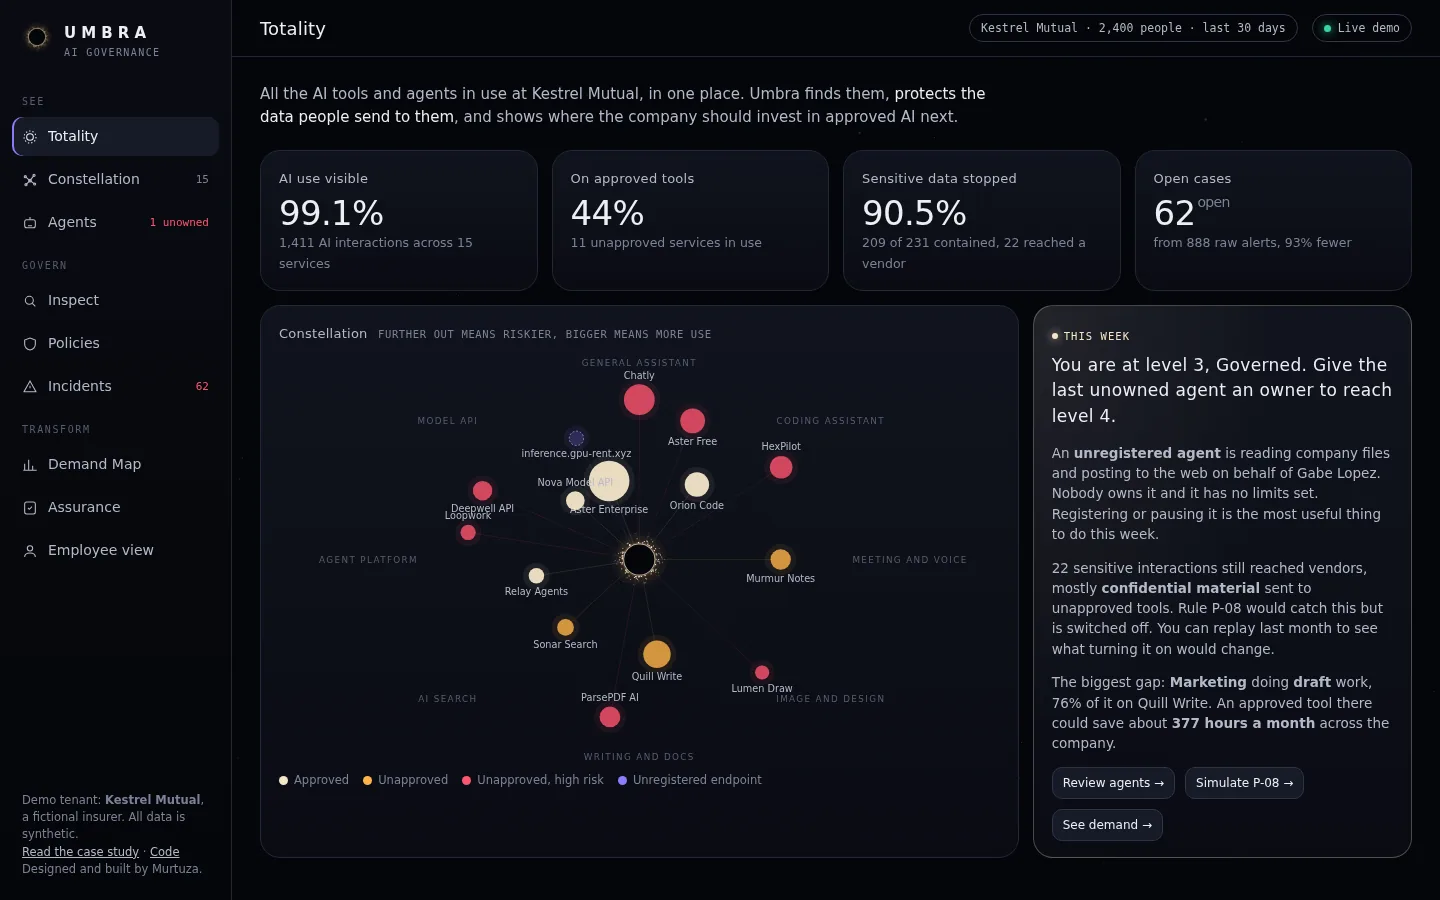
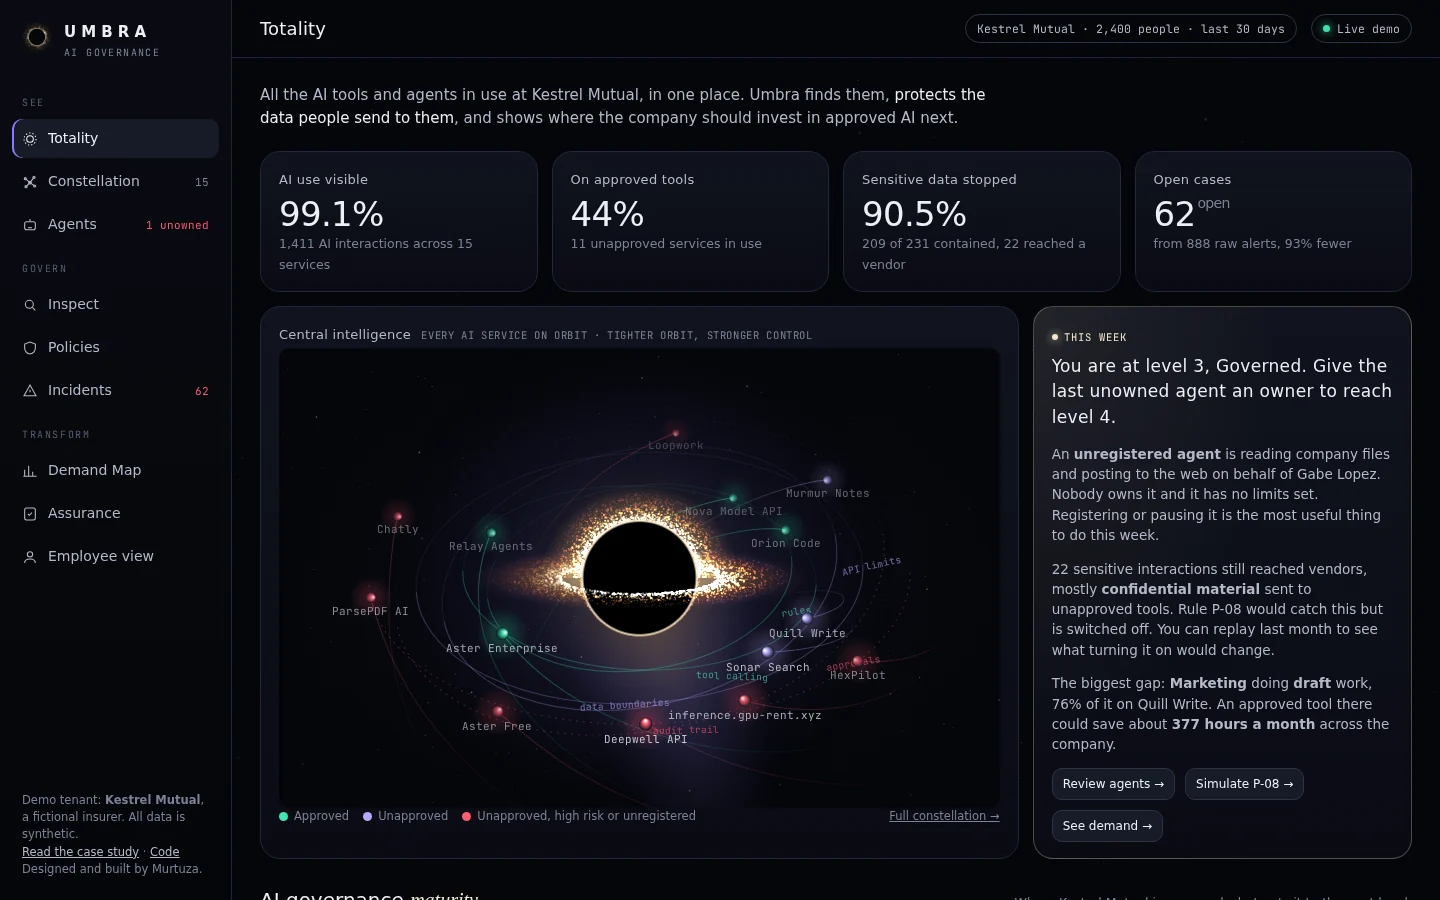
Totality: the central intelligence, every AI service in the inventory on orbit around Umbra
Claude-Session: https://claude.ai/code/session_01V1gFiQMVHBLNbgjmJzyciJ

diff --git a/brand/umbra-system.js b/brand/umbra-system.js
@@ -1,0 +1,100 @@
+/* Umbra central intelligence: shared with the portfolio. Plain script, sets window.umbraSystem. */
+/* Umbra as a central intelligence. A black hole at the centre, its accretion disk turning, the light of the far
+   side bent over the top. The company's AI services orbit it, and each orbit is a ring of Umbra's influence:
+   rules, tool calling, API limits, data boundaries, approvals, audit trail. The tighter the orbit, the stronger the
+   hold. The whole system travels forward, so every orbit leaves a spiral behind it. Every few seconds the core
+   reaches out to one service; every ten or so it pulls a shadow tool inward and governs it (red, then lavender,
+   then green). Then a new shadow tool shows up on the edge, because there is always another one.
+   Names come from Umbra's own sample catalog. */
+window.umbraSystem=function(cv,o){ o=o||{}; const x=cv.getContext('2d'); const D=Math.min(2,devicePixelRatio||1); let W,H,seed=3; const r=()=>((seed=(seed*16807)%2147483647)/2147483647);
+const S=Array.from({length:240},()=>[r(),r(),r()]);
+const size=()=>{W=cv.clientWidth;H=cv.clientHeight;cv.width=W*D;cv.height=H*D;x.setTransform(D,0,0,D,0,0)}; size(); addEventListener('resize',size);
+const sec=o.host||cv.parentElement; let mx=-1e4,my=-1e4,heat=0; sec.addEventListener('pointermove',e=>{const c=cv.getBoundingClientRect();mx=e.clientX-c.left;my=e.clientY-c.top;}); sec.addEventListener('pointerleave',()=>{mx=my=-1e4;});
+const still=matchMedia('(prefers-reduced-motion: reduce)').matches; let on=false, running=false; const go=()=>{ if(!running&&on&&!still&&(!o.active||o.active())){ running=true; last=performance.now(); requestAnimationFrame(f); } }; new IntersectionObserver(e=>{on=e[0].isIntersecting; go();}).observe(cv); cv.umbraWake=go;
+const MONO=(getComputedStyle(document.body).getPropertyValue('--mono')||'').trim()||'monospace';
+/* accretion disk: particles on circular orbits seen at a low angle */
+const KY=.2, DISK=Array.from({length:innerWidth<700?1400:2600},()=>{const u=r(); return {f:Math.pow(u,1.7), a:r()*6.283, s:.6+r()*.9, j:r()};});
+const HEATC=['#FFFBF0','#FFF1D2','#FFE2AE','#FFD08A','#FFBC6A','#FFA552','#F68A45','#E06F3E','#C2573D','#9E4542','#7A3B55','#5B3566'];
+/* rings of influence: radius in hole radii, tilt, flatness */
+const ORB=[[2.95,-.14,.6],[3.4,.04,.52],[3.85,-.22,.64],[4.3,-.06,.56],[4.75,-.18,.62],[5.2,-.02,.54]];
+const RING=['rules','tool calling','API limits','data boundaries','approvals','audit trail'];
+const RC=[[59,232,176],[59,232,176],[179,168,255],[179,168,255],[255,90,110],[255,90,110]];
+const VX=-.3, VY=-.95; /* direction of travel: up, so the trails fall away below */
+/* status runs 0 shadow, 1 under review, 2 approved */
+const SC=[[255,90,110],[179,168,255],[59,232,176]], SN=o.statusNames||['shadow AI','under review','approved'];
+const col=g=>{ const i=Math.min(1,Math.floor(g)), t=Math.min(1,g-i), a=SC[i], b=SC[Math.min(2,i+1)]; return [0,1,2].map(k=>Math.round(a[k]+(b[k]-a[k])*t)); };
+const rgba=(c,a)=>`rgba(${c[0]},${c[1]},${c[2]},${a})`;
+const mk=(n,g,o,a)=>({n,g,o,a,ph:r()*6.283,beam:0,h:[],cap:-1,al:1});
+const P=o.planets?o.planets.map((q,i)=>mk(q.n,q.g,q.o,i*2.399)):[mk('Aster Enterprise',2,0,.0),mk('Orion Code',2,1,3.1),mk('Relay Agents',2,1,1.4),
+         mk('Quill Write',1,2,.8),mk('Sonar Search',1,3,4.2),...(o.full?[mk('Vela Meeting AI',2,0,3.4),mk('Murmur Notes',1,3,1.2)]:[]),
+         mk('Chatly',0,4,5.4),mk('HexPilot',0,4,2.2),mk('Aster Free',0,5,3.6),mk('Lumen Draw',0,5,.4),...(o.full?[mk('ParsePDF AI',0,5,2.1)]:[])];
+const POOL=['Loopwork','ParsePDF AI','Chatly','HexPilot','Aster Free','Lumen Draw']; let poolI=0;
+const orbAt=o=>{ const i=Math.max(0,Math.min(4.999,o)), a=Math.floor(i), t=i-a, A=ORB[a], B=ORB[a+1]; return [A[0]+(B[0]-A[0])*t, A[1]+(B[1]-A[1])*t, A[2]+(B[2]-A[2])*t]; };
+const ease=t=>t<.5?4*t*t*t:1-Math.pow(-2*t+2,3)/2;
+let next=1.5, pick=0, story=o.firstStory||6; let last=performance.now(), T=0;
+function f(now){const dt=Math.min(.05,(now-last)/1000); last=now; x.clearRect(0,0,W,H);
+ for(const [a,b,c] of S){ const sp=(6+c*22)*T, sx=((a*W-VX*sp)%W+W)%W, sy=((b*H-VY*sp)%H+H)%H; x.globalAlpha=(.05+c*.35)*(.55+.45*Math.sin(T*(.6+c*1.8)+c*40));x.fillStyle='#F5E6C8';x.fillRect(sx,sy,c>.85?1.5:1,c>.85?1.5:1)} x.globalAlpha=1;
+ const {X,Y,Rh,narrow}=o.geom(W,H);
+ const near=Math.hypot(mx-X,my-Y)<Rh*6; heat+=((near?1:0)-heat)*.04; T+=dt*(1+heat*.9);
+ const rin=Rh*1.5, rout=Rh*2.85;
+ let g=x.createRadialGradient(X,Y,Rh*.8,X,Y,Rh*5); g.addColorStop(0,`rgba(255,190,110,${.16+heat*.08})`); g.addColorStop(.35,'rgba(139,124,255,.07)'); g.addColorStop(1,'rgba(5,6,10,0)'); x.fillStyle=g; x.fillRect(X-Rh*5,Y-Rh*5,Rh*10,Rh*10);
+ /* the story: every ten seconds or so, pull a shadow tool inward and govern it */
+ story-=dt; if(o.story!==false&&story<=0&&!P.some(p=>p.cap>=0)){ const sh=P.filter(p=>p.g<.5&&p.al>.99); if(sh.length){ const p=sh[Math.floor(r()*sh.length)]; p.cap=0; p.o0=p.o; p.g0=p.g; } story=11; }
+ for(const p of P){
+   if(p.cap>=0){ p.cap+=dt/5; const e=ease(Math.min(1,p.cap)); p.o=p.o0+(1.3-p.o0)*e; p.g=p.g0+(2-p.g0)*e; p.beam=Math.max(p.beam,Math.min(1,p.cap*3)*(p.cap<1.1?1:0));
+     if(p.cap>=2.2){ p.al-=dt; if(p.al<=0){ /* a new shadow tool appears on the edge */ let n; do{ n=POOL[poolI++%POOL.length]; }while(P.some(q=>q.n===n)); Object.assign(p,{n,g:0,o:4+r(),cap:-1,al:0,h:[],a:r()*6.283}); p.fade=1; } } }
+   else if(p.fade){ p.al=Math.min(1,p.al+dt*.6); if(p.al>=1) p.fade=0; } }
+ /* planets: positions and depth */
+ const pl=P.map(p=>{ const [k,tl,oy]=orbAt(p.o), w=.3*Math.pow(3.1/k,1.5)*(1-heat*.35); p.a+=dt*w*(p.g<.5?1+.25*Math.sin(T*.7+p.ph):1);
+   const ex=Math.cos(p.a)*Rh*k, ey=Math.sin(p.a)*Rh*k*oy, ct=Math.cos(tl), sn=Math.sin(tl);
+   const px=X+ex*ct-ey*sn, py=Y+ex*sn+ey*ct, drift=dt*(20+heat*14); for(const h of p.h){ h[0]-=VX*drift; h[1]-=VY*drift; } p.h.push([px,py,p.g]); if(p.h.length>560) p.h.shift();
+   return {p, px, py, z:Math.sin(p.a), c:col(p.g)}; });
+ /* the path each planet has travelled: the system moves forward, so orbits become spirals behind it */
+ x.lineWidth=1.1; for(const q of pl){ const h=q.p.h; for(let i=1;i<h.length;i+=1){ x.globalAlpha=Math.pow(i/h.length,1.8)*(h[i][2]<.5?.3:.4)*q.p.al; x.strokeStyle=rgba(col(h[i][2]),1); x.beginPath(); x.moveTo(h[i-1][0],h[i-1][1]); x.lineTo(h[i][0],h[i][1]); x.stroke(); } } x.globalAlpha=1;
+ /* the core's own wake */
+ { const L=Rh*5; for(let i=10;i>=1;i--){ const k=i/10, cx=X-VX*L*k, cy=Y-VY*L*k, rr=Rh*(1.4-k*.6); const wg=x.createRadialGradient(cx,cy,0,cx,cy,rr*1.6); wg.addColorStop(0,`rgba(${k<.5?'255,205,150':'150,135,255'},${(.09+heat*.04)*(1-k*.8)})`); wg.addColorStop(1,'rgba(139,124,255,0)'); x.fillStyle=wg; x.beginPath(); x.arc(cx,cy,rr*1.6,0,6.283); x.fill(); } }
+ /* rings of influence, drawn in two halves so they pass behind the hole and in front of it */
+ const ring=(front)=>{ ORB.forEach(([k,tl,oy],i)=>{ x.save(); x.translate(X,Y); x.rotate(tl); x.beginPath(); x.ellipse(0,0,Rh*k,Rh*k*oy,0,front?0:Math.PI,front?Math.PI:6.283); x.lineWidth=front?1.15:.9; x.strokeStyle=rgba(RC[i],(front?.26:.09)+heat*.06); if(i>3) x.setLineDash([2,5]); x.stroke(); x.setLineDash([]);
+   const lab=o.labels==='always'?.75:heat; if(front&&lab>.02){ const la=[.55,1.25,.25,1.9,.85,1.55][i], lx=Math.cos(la)*Rh*k, ly=Math.sin(la)*Rh*k*oy; x.globalAlpha=lab; x.fillStyle=rgba(RC[i],.85); x.font=`${narrow?8.5:9.5}px ${MONO}`; x.textAlign='left'; x.textBaseline='top'; x.fillText(RING[i],lx+5,ly+3); x.globalAlpha=1; }
+   x.restore(); }); };
+ ring(false);
+ /* the core reaches out to one service at a time */
+ next-=dt; if(next<=0){ next=2.4; const q=pl[pick%pl.length]; if(q.p.cap<0) q.p.beam=1; pick+=4; }
+ let hov=null, hd=1e9; pl.forEach(q=>{ const d=Math.hypot(mx-q.px,my-q.py); if(d<28&&d<hd){hd=d;hov=q;} });
+ const cw=narrow?6.1:6.7, boxes=[]; [...pl].sort((a,b)=>(b===hov)-(a===hov)||(b.p.cap>=0)-(a.p.cap>=0)||b.z-a.z).forEach(q=>{ const w=q.p.n.length*cw+6, bx=q.px-w/2, by=q.py+4; q.show=q===hov||q.p.cap>=0||!boxes.some(b=>bx<b[2]&&bx+w>b[0]&&by<b[3]&&by+(q.p.beam>.35?30:16)>b[1]); if(q.show) boxes.push([bx,by,bx+w,by+(q.p.beam>.35||q.p.cap>=0?30:16)]); });
+ const drawPlanet=q=>{ const {p,px,py,z,c}=q, s=(narrow?4.2:5.4)*(1+.22*z)*(1+.1*p.g/2), lit=hov===q, A=p.al;
+   if(p.cap<0) p.beam=Math.max(0,p.beam-dt*.55); else if(p.cap>1.1) p.beam=Math.max(0,p.beam-dt*.5);
+   if(p.beam>0||lit){ const b=(lit?1:p.beam)*A; const lg=x.createLinearGradient(X,Y,px,py); lg.addColorStop(0,'rgba(255,230,190,0)'); lg.addColorStop(.25,`rgba(255,230,190,${.5*b})`); lg.addColorStop(1,rgba(c,1)); x.globalAlpha=b*.9; x.strokeStyle=lg; x.lineWidth=p.cap>=0?1.8:1.2; x.beginPath(); x.moveTo(X+(px-X)*.18,Y+(py-Y)*.18); x.lineTo(px,py); x.stroke();
+     x.globalAlpha=b*.6; x.strokeStyle=rgba(c,1); x.lineWidth=1.1; x.beginPath(); x.arc(px,py,s+4+(p.cap>=0?3*Math.sin(T*6):(1-b)*12),0,6.283); x.stroke(); x.globalAlpha=1; }
+   const flick=p.g<.5?.7+.3*Math.sin(T*3.1+p.ph*7):1;
+   const hg=x.createRadialGradient(px,py,0,px,py,s*4); hg.addColorStop(0,rgba(c,.33)); hg.addColorStop(1,rgba(c,0)); x.globalAlpha=A*flick*(.45+.55*(z+1)/2); x.fillStyle=hg; x.beginPath(); x.arc(px,py,s*4,0,6.283); x.fill();
+   const dd=Math.hypot(X-px,Y-py)||1, lx=px+(X-px)/dd*s*.55, ly=py+(Y-py)/dd*s*.55;
+   const sg=x.createRadialGradient(lx,ly,s*.1,px,py,s); sg.addColorStop(0,'#FFFFFF'); sg.addColorStop(.35,rgba(c,1)); sg.addColorStop(1,'#0A0C13'); x.globalAlpha=A*flick*(.55+.45*(z+1)/2); x.fillStyle=sg; x.beginPath(); x.arc(px,py,s,0,6.283); x.fill();
+   if(q.show){ x.globalAlpha=A*(lit||p.cap>=0?1:.3+.6*(z+1)/2)*(p.g<.5?flick:1); x.font=`500 ${narrow?10:11}px ${MONO}`; x.textBaseline='middle'; x.textAlign='center'; x.fillStyle=lit?'#FFFFFF':'#D6D9E4'; x.fillText(p.n,px,py+s+9);
+     if(lit||p.beam>.35||p.cap>=0){ x.globalAlpha=A*(lit||p.cap>=0?1:p.beam); x.fillStyle=rgba(c,1); x.font=`${narrow?9:10}px ${MONO}`; x.fillText(p.cap>=0&&p.cap<1?'governing…':SN[Math.round(p.g)],px,py+s+21); } }
+   x.globalAlpha=1; x.textAlign='left'; };
+ const back=pl.filter(q=>q.z<0).sort((a,b)=>a.z-b.z), front=pl.filter(q=>q.z>=0).sort((a,b)=>a.z-b.z);
+ back.forEach(drawPlanet);
+ /* disk: far half first, then the bent light over the top, then the hole, then the near half */
+ const pts=DISK.map(d=>{ const rr=rin+(rout-rin)*d.f; d.a+=dt*(1+heat*1.4)*1.15*Math.pow(rin/rr,1.5); const ca=Math.cos(d.a), sa=Math.sin(d.a);
+   const ci=Math.min(HEATC.length-1,Math.floor(d.f*HEATC.length)), dop=1+.6*ca; return {px:X+ca*rr, py:Y+sa*rr*KY, sa, ca, ci, al:Math.min(1,(.35+.65*(1-d.f))*dop*(.75+.25*Math.sin(T*2+d.j*30))*(.85+heat*.3)), s:d.s*(narrow?.85:1)*(1+(1-d.f)*.5), f:d.f}; });
+ x.save(); x.translate(X,Y); x.scale(1,KY); g=x.createRadialGradient(0,0,rin*.9,0,0,rout*1.15); g.addColorStop(0,`rgba(255,214,150,${.5+heat*.2})`); g.addColorStop(.45,'rgba(255,150,80,.22)'); g.addColorStop(1,'rgba(120,60,120,0)'); x.fillStyle=g; x.beginPath(); x.arc(0,0,rout*1.15,0,6.283); x.fill(); x.restore();
+ x.save(); x.translate(X,Y); x.scale(1,.94); g=x.createRadialGradient(0,0,Rh*1.05,0,0,Rh*1.9); g.addColorStop(0,`rgba(255,220,170,${.38+heat*.15})`); g.addColorStop(1,'rgba(255,170,90,0)'); x.fillStyle=g; x.beginPath(); x.arc(0,0,Rh*1.9,Math.PI,0); x.fill(); x.restore();
+ x.globalCompositeOperation='lighter';
+ for(const q of pts) if(q.sa<0){ x.globalAlpha=q.al*.8; x.fillStyle=HEATC[q.ci]; x.fillRect(q.px-q.s/2,q.py-q.s/2,q.s,q.s); }
+ /* lensed image of the far side, arching over the top and a thin ring underneath */
+ for(const q of pts){ const lr=Rh*(1.12+.6*q.f), ang=Math.atan2(q.sa,q.ca); const top=Math.PI+(ang<0?ang+Math.PI:ang);
+   x.globalAlpha=q.al*.8; x.fillStyle=HEATC[q.ci]; const ax=X+Math.cos(top)*lr, ay=Y+Math.sin(top)*lr*.96; x.fillRect(ax-q.s*.5,ay-q.s*.5,q.s,q.s);
+   if(q.f<.45){ const br=Rh*(1.06+.22*q.f), bt=top-Math.PI; x.globalAlpha=q.al*.28; x.fillRect(X+Math.cos(bt)*br-.6,Y+Math.sin(bt)*br*.94-.6,1.2,1.2); } }
+ x.globalCompositeOperation='source-over'; x.globalAlpha=1;
+ /* event horizon and photon ring */
+ g=x.createRadialGradient(X,Y,Rh*.6,X,Y,Rh*1.14); g.addColorStop(0,'#000'); g.addColorStop(.86,'#000'); g.addColorStop(.93,`rgba(255,236,200,${.85+heat*.15})`); g.addColorStop(1,'rgba(255,200,130,0)');
+ x.fillStyle=g; x.beginPath(); x.arc(X,Y,Rh*1.14,0,6.283); x.fill();
+ x.globalCompositeOperation='lighter';
+ for(const q of pts) if(q.sa>=0){ x.globalAlpha=q.al; x.fillStyle=HEATC[q.ci]; x.fillRect(q.px-q.s/2,q.py-q.s/2,q.s,q.s); }
+ x.globalCompositeOperation='source-over'; x.globalAlpha=1;
+ ring(true);
+ front.forEach(drawPlanet);
+ if(on&&!still&&(!o.active||o.active())) requestAnimationFrame(f); else running=false; }
+if(still) requestAnimationFrame(f);
+};

diff --git a/app.js b/app.js
@@ -98,8 +98,8 @@ V.totality = () => {
     <div class="card kpi"><h3>Open cases</h3><b>${open.length}<sup>open</sup></b><span>from ${fmt(m.alerts)} raw alerts, ${pct(m.noiseReduction)} fewer</span></div>
   </div>
   <div class="grid g21" style="margin-top:14px">
-    <div class="card"><h3>Constellation <small>FURTHER OUT MEANS RISKIER, BIGGER MEANS MORE USE</small></h3>${constellation(R.inventory, { w: 780, h: 460 })}
-      <div class="legend"><span><i style="background:var(--corona)"></i>Approved</span><span><i style="background:var(--flare)"></i>Unapproved</span><span><i style="background:var(--ember)"></i>Unapproved, high risk</span><span><i style="background:var(--plasma)"></i>Unregistered endpoint</span></div></div>
+    <div class="card core-card"><h3>Central intelligence <small>EVERY AI SERVICE ON ORBIT · TIGHTER ORBIT, STRONGER CONTROL</small></h3><canvas id="core" class="core" role="img" aria-label="Umbra at the centre with the ${R.inventory.length} AI services found at Kestrel Mutual on orbit. Approved services sit on the inner rings, unapproved ones further out, high risk on the outer rings."></canvas>
+      <div class="legend"><span><i style="background:#3BE8B0"></i>Approved</span><span><i style="background:#B3A8FF"></i>Unapproved</span><span><i style="background:#FF5A6E"></i>Unapproved, high risk or unregistered</span><span style="margin-left:auto"><a href="#constellation" data-go="constellation" style="color:var(--ink3)">Full constellation →</a></span></div></div>
     <div class="card corona"><span class="ai-badge">This week</span><h3 style="margin-top:8px;font-size:17px;color:var(--ink)">${brief.headline}</h3>
       <div style="color:var(--ink2);font-size:13.5px">${brief.body}</div>
       <div class="row" style="margin-top:14px">${brief.actions.map(a => `<button class="btn sm" data-go="${a[1]}">${a[0]} →</button>`).join('')}</div></div>
@@ -113,6 +113,17 @@ V.totality = () => {
       <button class="btn sm" style="margin-top:12px" data-go="incidents">See all cases</button></div>
   </div>`;
 };
+
+/* the central intelligence: the services in the inventory on orbit around Umbra, placed by status and risk */
+function mountCore() {
+  const cv = $('#core'); if (!cv || !window.umbraSystem) return;
+  const rows = [...R.inventory].sort((a, b) => b.events - a.events).slice(0, 14);
+  const planets = rows.map(r => { const g = r.sanctioned ? 2 : (!r.service || r.risk >= 70) ? 0 : 1;
+    return { n: r.service?.name || r.host, g, o: g === 2 ? Math.min(1.4, r.risk / 100 * 3) : Math.max(1.6, Math.min(5, r.risk / 100 * 5.4)) }; });
+  const wide = innerWidth >= 700;
+  window.umbraSystem(cv, { host: cv, planets, story: false, labels: wide ? 'always' : 'hover', statusNames: ['unapproved, high risk', 'unapproved', 'approved'],
+    geom: (W, H) => { const narrow = W < 560; return { X: W / 2, Y: H / 2, narrow, Rh: Math.max(16, Math.min((W / 2 - (narrow ? 44 : 90)) / 5.2, (H / 2 - (narrow ? 30 : 44)) / (5.2 * .66))) }; } });
+}
 
 function coronaBrief() {
   const m = R.metrics;
@@ -376,6 +387,7 @@ function go(v) {
   document.querySelectorAll('.nav').forEach(b => b.classList.toggle('on', b.dataset.v === v));
   $('#title').innerHTML = TITLES[v];
   $('#view').innerHTML = V[v]();
+  if (v === 'totality') mountCore();
   $('#view').classList.remove('view'); void $('#view').offsetWidth; $('#view').classList.add('view');
   $('#main').scrollTop = 0; $('#rail').classList.remove('open');
   try { history.replaceState(null, '', '#' + v); } catch {}

diff --git a/style.css b/style.css
@@ -140,3 +140,6 @@ svg text{font-family:var(--display)}
 @media(max-width:1100px){.g4{grid-template-columns:repeat(2,1fr)}.g21,.g12,.g3{grid-template-columns:1fr}.ladder{grid-template-columns:1fr 1fr}}
 @media(max-width:760px){body{overflow:auto}.app{grid-template-columns:1fr;height:auto}.rail{position:fixed;inset:0 30% 0 0;z-index:40;transform:translateX(-105%);transition:.25s}.rail.open{transform:none}.menu-btn{display:inline-flex}.main{overflow:visible}.view{padding:18px 16px 60px}.top{padding:12px 16px}.g4,.g2{grid-template-columns:1fr}table{font-size:12.5px}.hide-sm{display:none}}
 @media (prefers-reduced-motion:reduce){*{animation:none!important;transition:none!important}}
+
+/* central intelligence on the Totality view */
+.core-card canvas.core{display:block;width:100%;height:clamp(300px,42vw,460px);border-radius:10px;background:radial-gradient(ellipse at 50% 50%,#0B0D18 0%,#05060A 72%)}

diff --git a/index.html b/index.html
@@ -43,6 +43,7 @@
   </main>
 </div>
 <div class="toast" id="toast" role="status" aria-live="polite"></div>
+<script src="brand/umbra-system.js"></script>
 <script type="module" src="app.js"></script>
 </body>
 </html>
